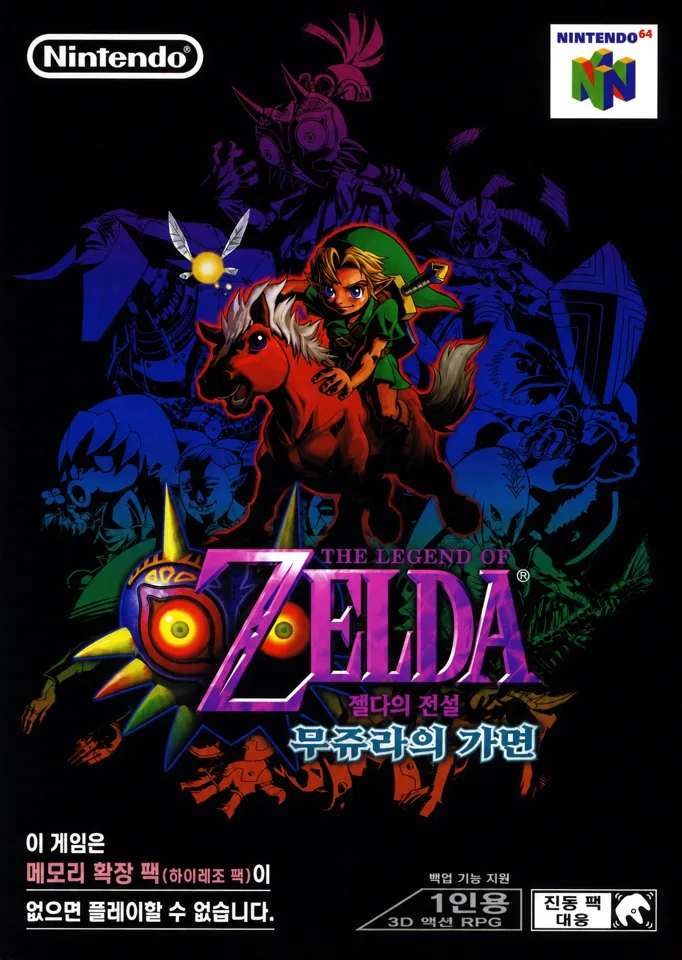
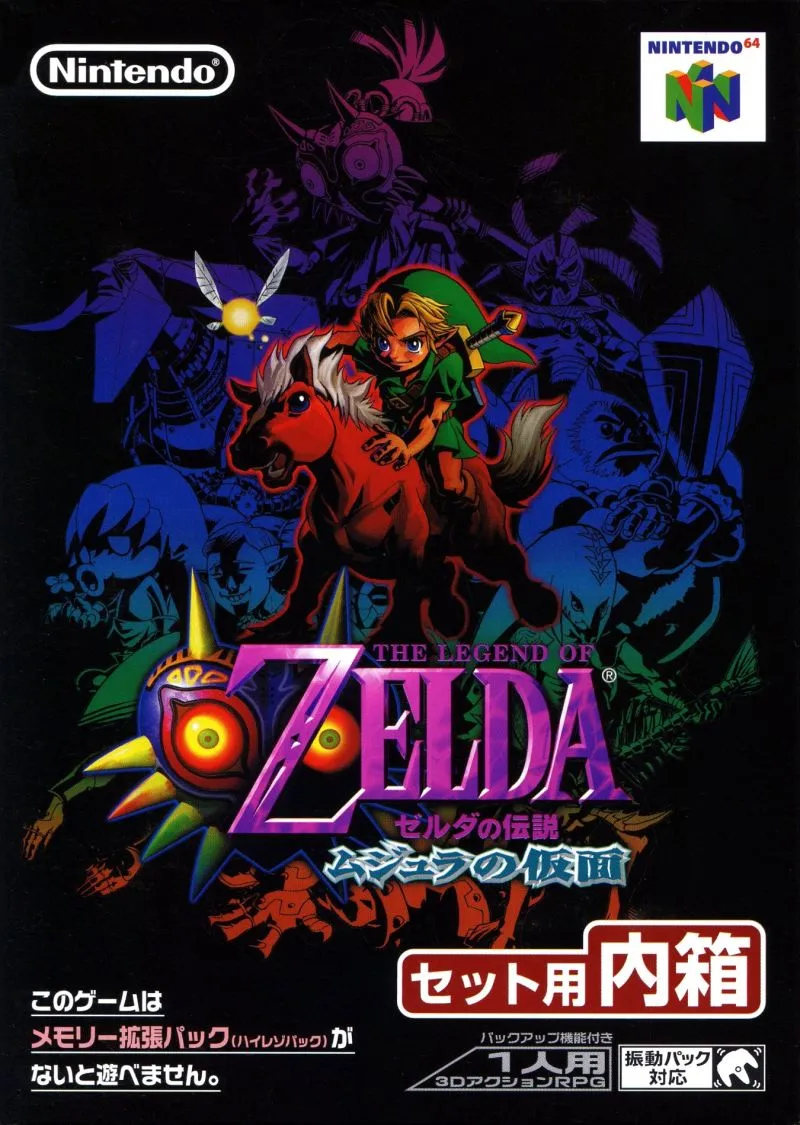
Replace Zelda covers with Japanese artwork

diff --git a/zelda-mm/index.html b/zelda-mm/index.html
@@ -98,8 +98,8 @@
                 <p>그러나 성지의 문이 열린 순간 세계의 운명은 크게 뒤틀린다. 어린 시절과 7년 뒤의 세계를 오가며, 링크는 시간의 용사로서 하이랄을 되찾기 위한 모험에 나선다.</p>
               </article>
               <figure class="oot-package-shot">
-                <div><img src="../assets/images/zelda/zelda_oot.webp" alt="젤다의 전설 시간의 오카리나 한국어 패키지" loading="lazy" /></div>
-                <figcaption>KOREAN PACKAGE / NINTENDO 64</figcaption>
+                <div><img src="../assets/images/zelda/zelda_oot.webp?v=20260823-jpcover1" alt="젤다의 전설 시간의 오카리나 일본판 패키지" loading="lazy" /></div>
+                <figcaption>JAPAN PACKAGE / NINTENDO 64</figcaption>
               </figure>
               <aside class="oot-game-facts">
                 <div><span>TITLE</span><strong>THE LEGEND OF ZELDA<br>OCARINA OF TIME</strong></div>
@@ -253,7 +253,7 @@
                 <p>일본판 원본의 명칭을 따라 이번 패치에서도 <b>MASTER QUEST</b> 대신 <b>裏(우라)</b> 표기를 그대로 사용했습니다.</p>
               </article>
               <figure class="ura-package-shot">
-                <div><img src="../assets/images/zelda/zelda_ura.webp" alt="젤다의 전설 시간의 오카리나 우라 패키지" loading="lazy" /></div>
+                <div><img src="../assets/images/zelda/zelda_ura.webp?v=20260823-jpcover1" alt="젤다의 전설 시간의 오카리나 우라 일본판 패키지" loading="lazy" /></div>
                 <figcaption>GAMECUBE BONUS DISC / JAPAN</figcaption>
               </figure>
               <aside class="ura-game-facts">
@@ -352,7 +352,7 @@
                 <p>하늘에는 거대한 달이 추락하고 있고, 세계가 멸망하기까지 남은 시간은 단 사흘. 링크는 시간의 노래로 3일을 반복하며 테르미나의 사람들과 만나고, 가면에 깃든 힘을 빌려 재앙의 원인인 무쥬라의 가면을 추적합니다.</p>
               </article>
               <figure class="mm-package-shot">
-                <div><img src="../assets/images/zelda/majora-mask-cover.webp" alt="젤다의 전설 무쥬라의 가면 패키지" loading="lazy" /></div>
+                <div><img src="../assets/images/zelda/majora-mask-cover.webp?v=20260823-jpcover1" alt="젤다의 전설 무쥬라의 가면 일본판 패키지" loading="lazy" /></div>
                 <figcaption>JAPAN PACKAGE / NINTENDO 64</figcaption>
               </figure>
               <aside class="mm-game-facts">

diff --git a/index.html b/index.html
@@ -70,7 +70,7 @@
             <img src="assets/images/platform-n64.png" alt="" aria-hidden="true" />
           </div>
           <div class="thumb-frame">
-            <img src="assets/images/zelda/zelda_oot.webp" alt="젤다의 전설 시간의 오카리나 패키지" />
+            <img src="assets/images/zelda/zelda_oot.webp?v=20260823-jpcover1" alt="젤다의 전설 시간의 오카리나 패키지" />
           </div>
           <div class="card-meta">
             <time datetime="2026-01-10">패치 배포일 2026.01.10</time>
@@ -83,7 +83,7 @@
             <img src="assets/images/platform-n64.png" alt="" aria-hidden="true" />
           </div>
           <div class="thumb-frame">
-            <img src="assets/images/zelda/majora-mask-cover.webp" alt="젤다의 전설 무쥬라의 가면 패키지" />
+            <img src="assets/images/zelda/majora-mask-cover.webp?v=20260823-jpcover1" alt="젤다의 전설 무쥬라의 가면 패키지" />
           </div>
           <div class="card-meta">
             <time datetime="2026-08-23">2026.08.23 <span class="release-status is-live">한국어 패치 배포 중</span></time>
@@ -96,7 +96,7 @@
             <img src="assets/images/platform-n64.png" alt="" aria-hidden="true" />
           </div>
           <div class="thumb-frame">
-            <img src="assets/images/zelda/zelda_ura.webp" alt="젤다의 전설 시간의 오카리나 우라 패키지" />
+            <img src="assets/images/zelda/zelda_ura.webp?v=20260823-jpcover1" alt="젤다의 전설 시간의 오카리나 우라 패키지" />
           </div>
           <div class="card-meta">
             <time datetime="2026-01-10">패치 배포일 2026.01.10</time>
